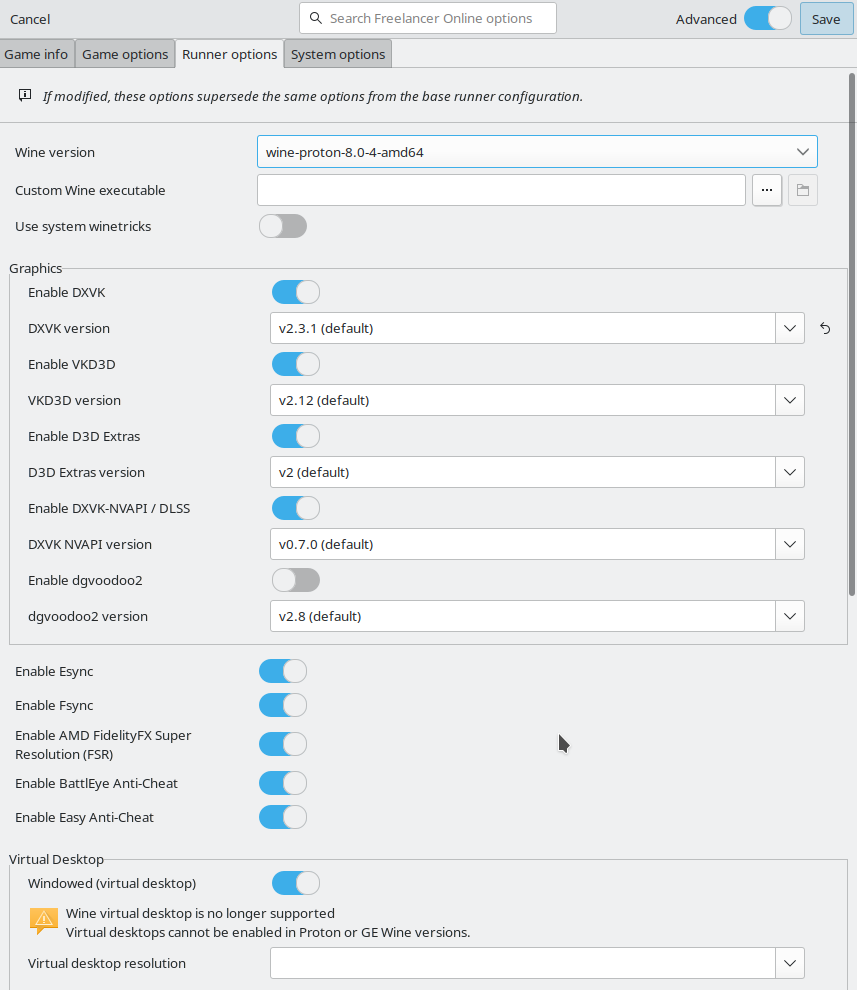
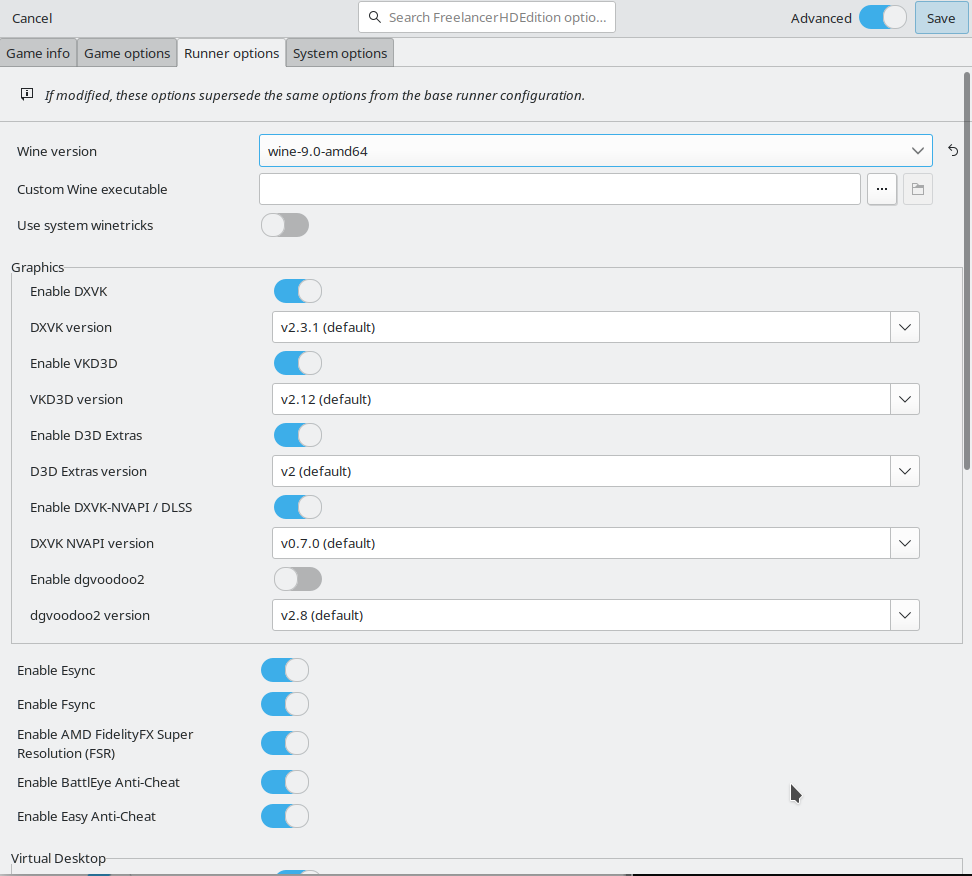
refactor: customizing specific articles

diff --git a/blog/articles/articles.go b/blog/articles/articles.go
@@ -79,7 +79,9 @@ var ArticleDiscoLinux *Article = NewArticle(
 		utils_filepath.Join(artcieles_root, "article_freelancer_setup_at_linux", "article_post_installation.md"),
 		utils_filepath.Join(artcieles_root, "article_freelancer_setup_at_linux", "article_setup_dll_override.md"),
 		utils_filepath.Join(artcieles_root, "article_freelancer_setup_at_linux", "disco", "article_launch_discovery.md"),
+		utils_filepath.Join(artcieles_root, "article_freelancer_setup_at_linux", "article_extra_info_d3d8.md"),
 		utils_filepath.Join(artcieles_root, "article_freelancer_setup_at_linux", "article_extra_info_shared.md"),
+		utils_filepath.Join(artcieles_root, "article_freelancer_setup_at_linux", "article_extra_info_mirate_proton_8.md"),
 		utils_filepath.Join(artcieles_root, "article_freelancer_setup_at_linux", "article_acknowledgements.md"),
 	),
 )
@@ -113,6 +115,7 @@ var ArticleFreelancerVanillaLinux *Article = NewArticle(
 		utils_filepath.Join(artcieles_root, "article_freelancer_setup_at_linux", "article_setup_dxvk.md"),
 		utils_filepath.Join(artcieles_root, "article_freelancer_setup_at_linux", "article_setup_dll_override.md"),
 		utils_filepath.Join(artcieles_root, "article_freelancer_setup_at_linux", "vanilla", "article_launch_vanilla.md"),
+		utils_filepath.Join(artcieles_root, "article_freelancer_setup_at_linux", "article_extra_info_d3d8.md"),
 		utils_filepath.Join(artcieles_root, "article_freelancer_setup_at_linux", "article_extra_info_shared.md"),
 		utils_filepath.Join(artcieles_root, "article_freelancer_setup_at_linux", "article_acknowledgements.md"),
 	),

diff --git a/blog/articles/article_detailed/article_freelancer_setup_at_linux/article_extra_info_shared.md b/blog/articles/article_detailed/article_freelancer_setup_at_linux/article_extra_info_shared.md
@@ -24,10 +24,6 @@ It should make alt-tab working reliably.
 
 P.S. Alternatively can be used Virtual Desktop feature.
 
-## Extra info - d3d8to9 v1.12.0
-
-The guide used dxvk 2.4 with direct 8 support to launch the game, but [d3d8to9 v1.12.0](https://github.com/crosire/d3d8to9/releases/tag/v1.12.0) can be used as alternative.
-
 ## Extra info - vendoring dependencies
 
 Just in case providing copies of all main dependencies, vendored in for this articles, in case they aren't longer downloadable.
@@ -51,13 +47,6 @@ You can do it by inserting desired framerate into Env variables of application `
 ![]({{.StaticRoot}}article_freelancer_setup_at_linux/frame_limit_install.png)
 
 You can validate it works, by also injecting env var `DXVK_HUD=devinfo,fps,api` to see FPS in real time
-
-## Extra info - Migrating from legacy Wine Proton 8.0.4
-
-For those of you who used Wine Proton 8.0.4 before, you can reuse same created Wine Prefix
-- You need only to repeat step `## 2. Setup Wine` to install new wine
-- Specify it in your App Runner options
-- and repeat step with Winetricks installation (specifically `msacm32` and `directplay`) and ensure dll overrides are present.
 
 ## Extra info - useful links
 

diff --git a/blog/articles/article_detailed/article_freelancer_setup_at_linux/article_extra_info_mirate_proton_8.md b/blog/articles/article_detailed/article_freelancer_setup_at_linux/article_extra_info_mirate_proton_8.md
@@ -1,0 +1,6 @@
+## Extra info - Migrating from legacy Wine Proton 8.0.4
+
+For those of you who used Wine Proton 8.0.4 before, you can reuse same created Wine Prefix
+- You need only to repeat step `## 2. Setup Wine` to install new wine
+- Specify it in your App Runner options
+- and repeat step with Winetricks installation (specifically `msacm32` and `directplay`) and ensure dll overrides are present.

diff --git a/blog/articles/article_detailed/article_freelancer_setup_at_linux/article_extra_info_d3d8.md b/blog/articles/article_detailed/article_freelancer_setup_at_linux/article_extra_info_d3d8.md
@@ -1,0 +1,3 @@
+## Extra info - d3d8to9 v1.12.0
+
+The guide used dxvk 2.4 with direct 8 support to launch the game, but [d3d8to9 v1.12.0](https://github.com/crosire/d3d8to9/releases/tag/v1.12.0) can be used as alternative.
